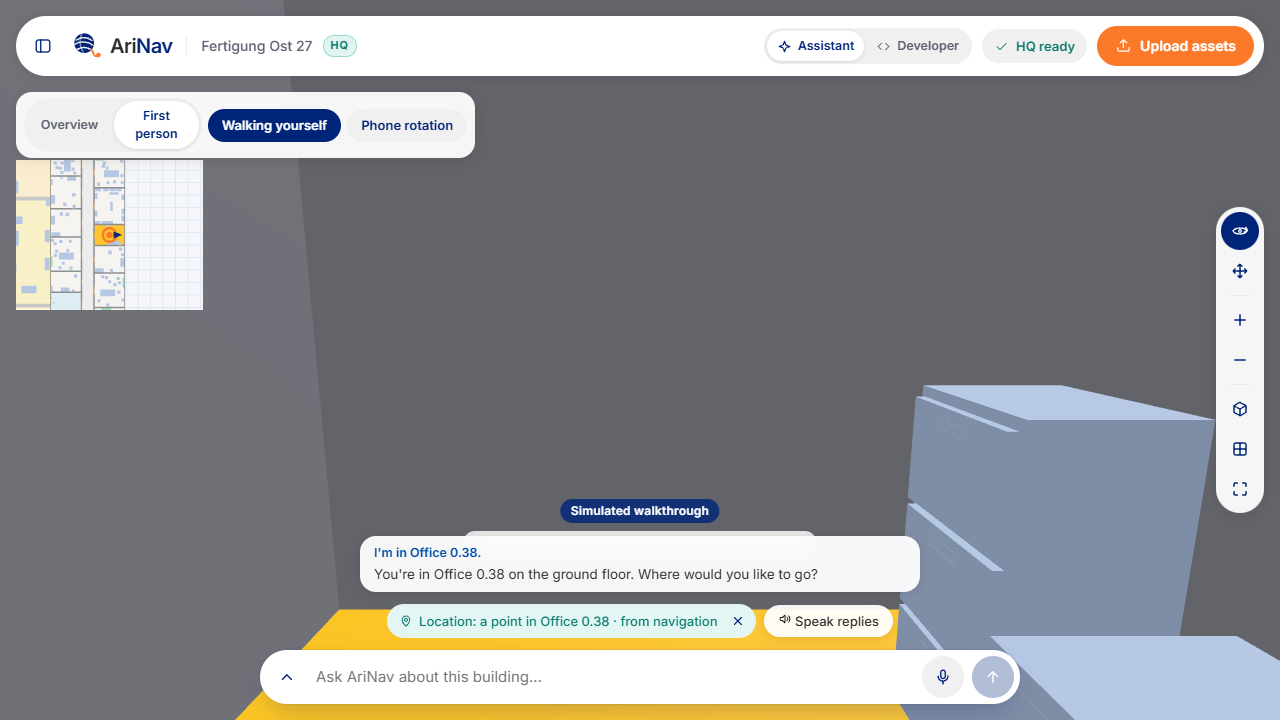
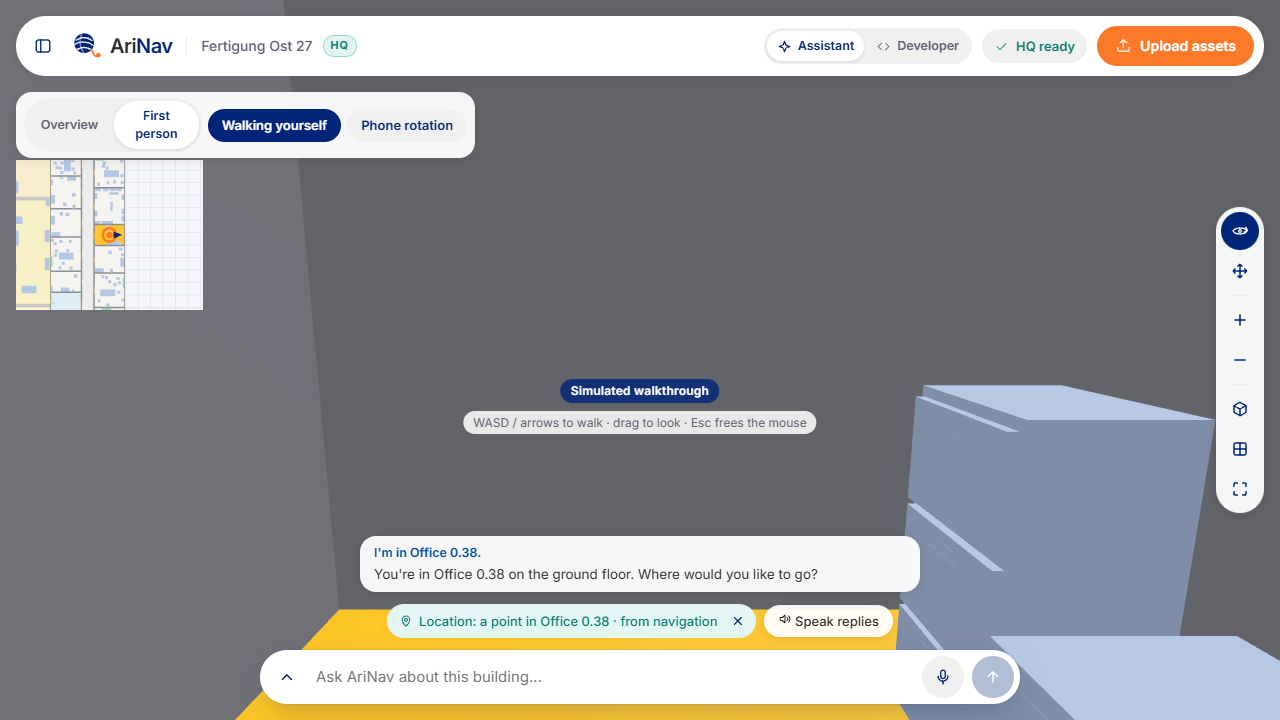
Spatial answers: doors further along a wall count as 'on my right'; HUD above the chat card
- surroundings: wall_side for things ahead that are clearly on one side (corridor doors);
  'right/left' filters include them, filtering happens before the 12-item cut
- prompt: a start known_from simulation is where the person walked; no second-guessing
- desktop first person: HUD sits above the compact chat card; landscape phones hide the card
- e2e: dev toolbar hidden in immersive checks; guidance check 12 hides the campus HQ that now
  exists; scenes re-recorded with the final code
Backend 444 passed.

Changed region(s): [[0.3438, 0.5194, 0.6562, 0.6111], [0.375, 0.6722, 0.625, 0.7639]]

diff --git a/frontend/src/styles/arinav-night.css b/frontend/src/styles/arinav-night.css
@@ -445,3 +445,15 @@
 .pov-hud--split {
   left: calc(var(--inset-left) + (100% - var(--inset-left)) / 4);
 }
+
+/* Desktop first person: the compact chat card sits above the input, so the HUD goes above it. */
+@media (min-width: 721px) and (min-height: 501px) {
+  .app:has(.chat__mini) .pov-hud {
+    bottom: calc(var(--gutter) + 270px + var(--safe-b));
+  }
+}
+@media (max-height: 500px) {
+  .chat--compact .chat__mini {
+    display: none;
+  }
+}

diff --git a/backend/app/navigation/surroundings.py b/backend/app/navigation/surroundings.py
@@ -2,7 +2,10 @@
 relative to a pose and view heading, from the building data only.
 
 Headings follow the building frame used everywhere (degrees counter-clockwise from +X). Sides are
-four 90° sectors around the view direction; "right" is clockwise. Visibility is a plain line of
+four 90° sectors around the view direction; "right" is clockwise. Things ahead that
+are clearly off to one side (a door on the right-hand wall further down a corridor) also carry
+`wall_side`, which is how people say it ("the second door on your right").
+Visibility is a plain line of
 sight inside the person's own room outline: something in another room is reported as behind a wall
 (or through a door), never as visible. Without a heading no sides are given (ask, don't guess).
 """
@@ -14,6 +17,7 @@ from shapely.geometry import LineString, Polygon
 
 JSON = dict[str, Any]
 SIDES = ("ahead", "left", "behind", "right")
+LATERAL_M = 0.6  # this far off the line of sight counts as "on the right/left" further along
 
 
 def _side(rel: float) -> str:
@@ -34,6 +38,9 @@ def _relative(
         bearing = math.degrees(math.atan2(dy, dx)) % 360
         rel = (bearing - heading + 540) % 360 - 180  # + = counter-clockwise = left
         out |= {"side": _side(rel), "relative_deg": round(rel)}
+        lateral = -math.sin(math.radians(rel)) * math.hypot(dx, dy)  # + = to the right
+        if out["side"] == "ahead" and abs(lateral) >= LATERAL_M:
+            out["wall_side"] = "right" if lateral > 0 else "left"
     return out
 
 
@@ -44,7 +51,7 @@ def surroundings(
     position: list[float],
     heading_deg: float | None,
     radius_m: float = 12.0,
-    limit: int = 12,
+    limit: int = 40,
 ) -> JSON:
     spaces = {s["id"]: s for s in data["spaces"]}
     floors = {f["id"]: f for f in data["floors"]}
@@ -100,6 +107,7 @@ def surroundings(
         "heading_known": heading_deg is not None,
         "items": items[:limit],
         "rules": "Sides are relative to the person's view direction (right = clockwise). "
+        "wall_side marks things ahead that are on the right/left-hand side further along. "
         "'visible' means a clear line inside this room; other rooms are behind walls.",
     }
     if heading_deg is None:

diff --git a/backend/app/assistant/service.py b/backend/app/assistant/service.py
@@ -84,6 +84,8 @@ Understanding requests
   when they say so. session_state.ui_note reports a map choice that could not be used.
 - "What's on my right / behind me": describe_surroundings (sides come from the view
   direction; only 'visible' things are in sight; never claim something behind a wall is seen).
+  A start known_from "simulation" is where the person has walked to in the app: use it as their
+  position without questioning an earlier stated room.
 - Something leaking, dripping or falling through the floor ("which room below is affected?"):
   building_fact room_stacked for the room directly below (largest overlap on the floor below).
   Say that this is the room directly underneath; do not simulate or promise water flow.
@@ -861,8 +863,15 @@ class Assistant:
         )
         direction = args.get("direction") or "all"
         if direction != "all" and result.get("heading_known"):
-            result["items"] = [i for i in result["items"] if i.get("side") == direction]
+            # "on my right" includes doors on the right-hand wall further along (wall_side)
+            result["items"] = [
+                i
+                for i in result["items"]
+                if i.get("side") == direction
+                or (direction in ("left", "right") and i.get("wall_side") == direction)
+            ]
             result["filtered_to"] = direction
+        result["items"] = result["items"][:12]
         return result
 
     def tool_list_buildings(self, session: Session, args: JSON, ui: JSON) -> JSON:

diff --git a/backend/tests/navigation/test_surroundings.py b/backend/tests/navigation/test_surroundings.py
@@ -48,3 +48,14 @@ def test_without_a_heading_no_sides_and_a_note(service: NavigationService) -> No
     result = service.surroundings(B, OFFICE, [2.5, 2.7], None)
     assert result["heading_known"] is False and "ask" in result["note"]
     assert all("side" not in i for i in result["items"])
+
+
+def test_doors_further_along_a_wall_carry_the_wall_side(service: NavigationService) -> None:
+    # Office 1.04's door is on its east wall at (5.0, 2.718). Standing at the west side and
+    # looking north (90), the door is ahead-right at a shallow angle: sector "ahead"/"right",
+    # and if in the "ahead" sector it must say wall_side "right".
+    result = service.surroundings(B, OFFICE, [1.0, 0.8], 90)
+    d = door(result)
+    assert d["side"] in ("ahead", "right")
+    if d["side"] == "ahead":
+        assert d["wall_side"] == "right"

diff --git a/backend/tests/assistant/test_dialog_scenarios.py b/backend/tests/assistant/test_dialog_scenarios.py
@@ -500,7 +500,10 @@ def _s01(heading: float, direction: str, stored: float) -> Scenario:
                         "items",
                         lambda items: (
                             bool(items)
-                            and all(i["side"] == direction for i in items)
+                            and all(
+                                i["side"] == direction or i.get("wall_side") == direction
+                                for i in items
+                            )
                             and any(i["kind"] == "door" for i in items)
                         ),
                         f"only {direction} items, door included",

diff --git a/backend/tests/assistant/test_assistant_integration.py b/backend/tests/assistant/test_assistant_integration.py
@@ -396,7 +396,7 @@ def test_s01_whats_on_my_right_uses_the_pose_and_view_direction(
         }
         out = turn(client, "What's on my right?", pose=pose)
         items = out["tools"][0]["output"]["items"]
-        assert items and all(i["side"] == "right" for i in items)
+        assert items and all("right" in (i["side"], i.get("wall_side")) for i in items)
         assert any(i["kind"] == "door" for i in items)
         out = turn(client, "And now?", pose=None)  # pose cleared: must ask, not guess
         assert out["tools"][0]["status"] == "error"
